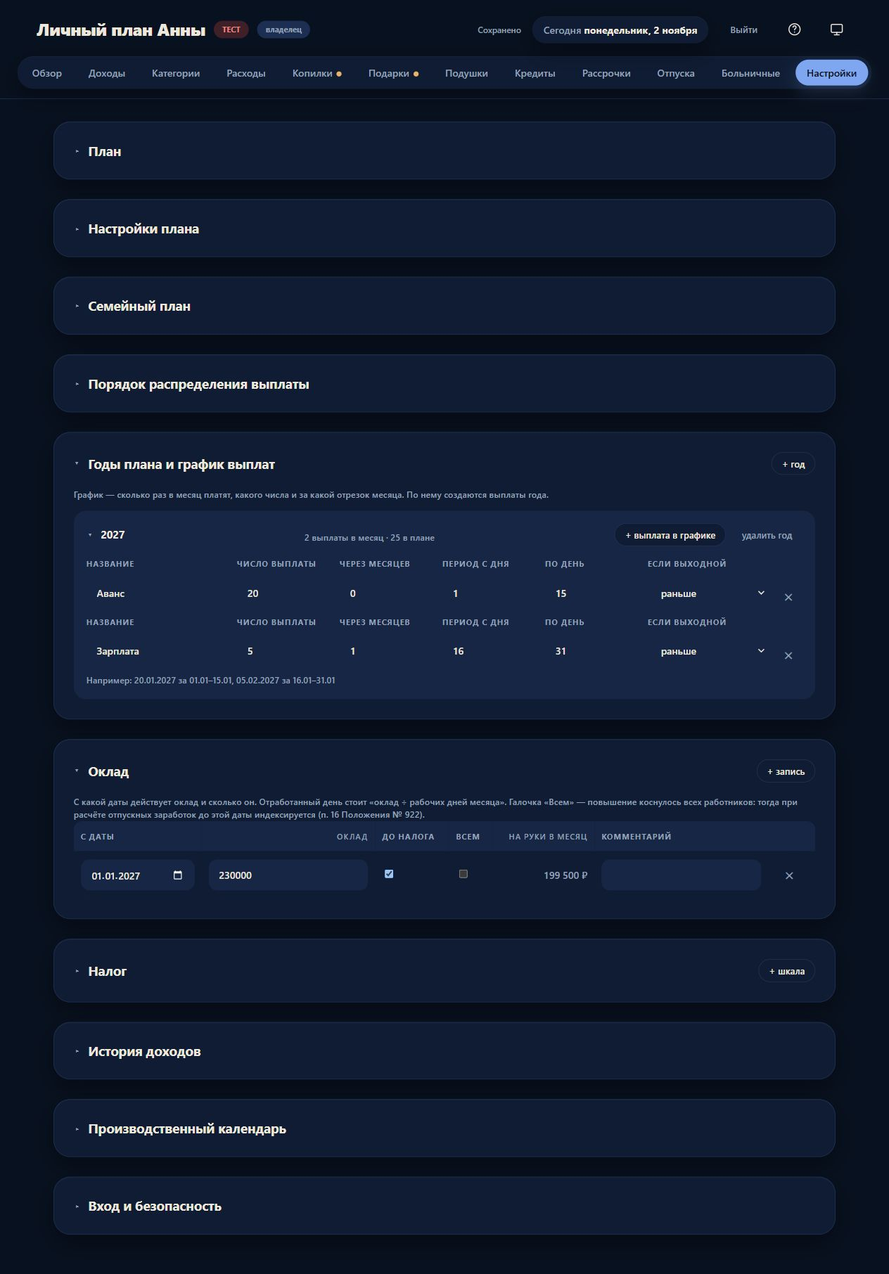
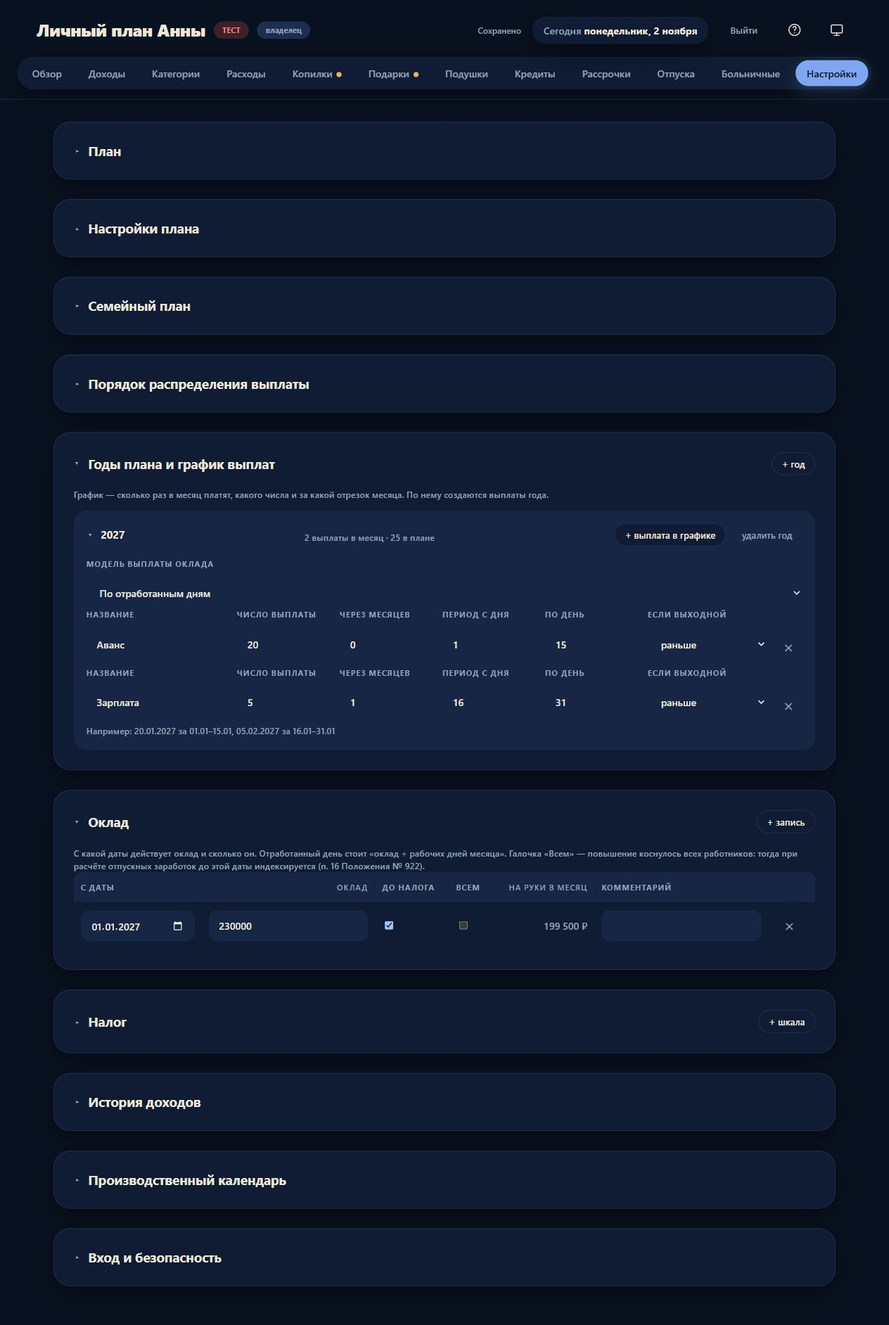
Новый тип оклада. В процентном соотношении.

diff --git a/help/index.html b/help/index.html
@@ -68,7 +68,11 @@
         <p class="guide-kicker">03 / Основа расчёта</p><h2>Настройки и производственный календарь</h2>
         <p>Блоки настроек раскрываются нажатием на заголовок. В каждом году график выплат раскрывается отдельно. В свёрнутом виде видны количество выплат и основные действия.</p>
         <ul><li><b>Оклад:</b> новая запись с датой начала задаёт изменение зарплаты с этой даты. Уточните, указываете сумму до налога или на руки. Признак общего повышения используется в расчёте среднего для отпускных.</li><li><b>Налог:</b> шкала и её ступени определяют переход от начисленного к сумме на руки. Последняя ступень может быть без верхней границы.</li><li><b>История доходов:</b> для точного расчёта отпускных обязательно заполните начисленный доход до НДФЛ за каждый из 12 календарных месяцев перед месяцем начала отпуска. Эти суммы нужны для среднего заработка и не создают отдельные поступления в текущий план. <a href="#vacations">Пример расчётного периода</a>.</li><li><b>Порядок распределения выплаты:</b> переставьте этапы стрелками и задайте параметры категорий, долгов, целей и семьи. Очередь влияет на то, кому достанутся доступные деньги.</li></ul>
-        <figure><a href="images/settings.jpg" data-enlarge><img src="images/settings.jpg" alt="Настройки: раскрытые год плана, график выплат и оклад" loading="lazy" width="1264" height="1812"></a><figcaption>График, оклад и налог настраиваются в отдельных раскрывающихся блоках.</figcaption></figure>
+        <figure><a href="images/settings.jpg" data-enlarge><img src="images/settings.jpg" alt="Настройки: раскрытые год плана, график выплат и оклад" loading="lazy" width="1264" height="1884"></a><figcaption>График, оклад и налог настраиваются в отдельных раскрывающихся блоках.</figcaption></figure>
+        <h3>Две модели выплаты оклада</h3><p>В раскрытом графике каждого года выберите модель: <b>«По отработанным дням»</b> либо <b>«В процентном соотношении»</b>. Выбор действует на этот год. Прежние планы используют модель по дням.</p><p>В процентной модели задайте долю оклада для каждой выплаты. Сумма не может превышать 100%; для запуска расчёта она должна быть ровно 100%. Все выплаты, кроме последней, получают свою долю оклада с поправкой на отношение отработанных рабочих дней периода ко всем рабочим дням этого периода. Последняя по дате выплата — окончательный расчёт: оклад за фактически отработанный месяц минус предыдущие окладные выплаты этого месяца. Разовые доходы в это вычитание не входят.</p>
+        <div class="guide-example"><h3>Пример: 50% аванс и окончательный расчёт</h3><p>Оклад 223 000 ₽ до налога, ставка НДФЛ 13%. В июле 23 рабочих дня, отпуск 6–10 июля. Из 11 рабочих дней первого периода отработано 6, за месяц — 18. Аванс: 223 000 × 0,87 × 50% × 6/11 ≈ 52 912 ₽. Зарплата: 223 000 × 0,87 × 18/23 − 52 912 ≈ 98 922 ₽.</p><p>За полностью отработанный август при таком окладе получаются две выплаты по 97 005 ₽. Даты, периоды и переносы по календарю настраиваются как обычно. При другой налоговой шкале применяется она; начисления и налог округляются по выплатам, поэтому возможна разница в рубль с сокращённой формулой на руки.</p></div>
+        <figure><a href="images/salary-percentage.jpg" data-enlarge><img src="images/salary-percentage.jpg" alt="Процентная модель оклада в графике года и доли двух выплат" loading="lazy" width="1264" height="1928"></a><figcaption>Проценты задаются в графике года. Последняя выплата рассчитывает остаток за месяц.</figcaption></figure>
+        <p>Введённые вручную и зафиксированные суммы не заменяются новой моделью: они засчитываются в остаток месяца. При изменении модели проверьте ручные рамки. Если предыдущие выплаты уже превысили начисление за месяц, итоговая выплата не становится отрицательной: карточка показывает предупреждение, автоматическая фиксация ожидает уточнения.</p>
         <h3>Как изменить рабочий день</h3><ol><li>Откройте «Производственный календарь».</li><li>Листайте месяцы стрелками. Нажатие на название месяца и год открывает быстрый выбор года и месяца.</li><li>Выберите день. Для рабочего доступно «Сделать нерабочим», для нерабочего — «Сделать рабочим».</li><li>Чтобы убрать собственное исключение, верните день «По календарю».</li></ol>
         <p>Рабочие дни считаются по календарю и вашим исключениям. Их изменение влияет на автоматический оклад и перенос дат выплат. Проверяйте производственный календарь для нужного года.</p>
       </section>
@@ -80,6 +84,8 @@
         <p>В таблице доходов сначала идут автоматические выплаты с названиями из графика этого года, затем их итог «Всего», разовые выплаты и «Общий доход». Внизу — суммы за год. Если автоматическая выплата одна, соответствующий столбец тоже один.</p>
         <p>Нажмите значок информации у суммы, чтобы увидеть начисление до налога, ставки и удержанный налог. Справка также показывает отпускные и больничный по их фактическим датам поступления. Эти справочные суммы уже включены в распределённые доходы: второй раз прибавлять их к итогу не нужно.</p>
         <p>Автоматические выплаты относятся к расчётным месяцам, разовые — к месяцу поступления. Поэтому зарплата за декабрь с выплатой в январе требует внимания к расчётному году и месяцу, а не только к дате на карточке.</p>
+        <h3>Расходы по категориям и подкатегориям</h3><p>Нажмите плитку «Расходы за год». Под категориями показаны их статьи и подкатегории, годовой план, факт и разница. Колонки среднего в деньгах показывают <b>годовую сумму, делённую на 12</b>, включая нулевые месяцы. Например, план 120 000 ₽ за год — это в среднем 10 000 ₽ в месяц. Итоги суммируют категории один раз: строки подкатегорий раскрывают их состав.</p>
+        <figure><a href="images/overview-expenses.jpg" data-enlarge><img src="images/overview-expenses.jpg" alt="Расходы Обзора с подкатегориями и средними месячными суммами плана и факта" loading="lazy" width="1264" height="1875"></a><figcaption>План и факт каждой категории и подкатегории дополнены средним за 12 месяцев.</figcaption></figure>
       </section>
 
       <section id="income" data-guide-section data-keywords="доходы выплата разовая премия подработка подарок формула ручной border закрепить распределить свободный остаток">

diff --git a/src/ui/dashboard.js b/src/ui/dashboard.js
@@ -11,6 +11,7 @@ import { goalTotal } from '../engine/savings.js';
 import { giftPlanTable } from './gifts.js';
 import { renderIncomeReport } from './income-report.js';
 import { buildIncomeReport } from '../engine/income-report.js';
+import {categoryItemAmounts} from '../engine/expenses.js';
 
 export const code = 'dashboard';
 export const title = () => 'Обзор';
@@ -30,6 +31,11 @@ function expensesView(ctx, rows) {
   for (const r of rows) for (const c of r.expenses.categories) plan.set(c.category_id, (plan.get(c.category_id) ?? 0) + c.amount);
   const fact = new Map();
   for (const f of facts) fact.set(f.category_id, (fact.get(f.category_id) ?? 0) + (Number(f.amount) || 0));
+  const items=state.expenses?.expense_items??[],itemPlans=new Map();
+  for(const r of rows)for(const c of r.expenses.categories){
+    const category=cats.find(x=>x.id===c.category_id);if(!category)continue;
+    for(const [id,amount] of categoryItemAmounts(category,items,r.period.pay_date,c.amount,fmt.round))itemPlans.set(id,(itemPlans.get(id)||0)+amount);
+  }
 
   const installments = rows.reduce((s, r) => s + r.installmentsTotal, 0);
   const cards = rows.reduce((s, r) => s + sumOf(r.debtPayments), 0);
@@ -53,11 +59,20 @@ function expensesView(ctx, rows) {
     const f = fact.get(c.id) ?? 0;
     if (!p && !f) return '';
     const diff = f - p;
+    const children=items.filter(i=>i.category_id===c.id);
+    const childLine=(title,plan,fact)=>`<tr class="fact-item"><td>${esc(title)}</td><td class="num muted">${esc(share(plan))}</td><td class="num">${esc(fmt.money(plan))}</td><td class="num">${esc(fmt.money(fact))}</td><td class="num">${fact?esc(fmt.money(fact-plan,undefined,{sign:true})):''}</td><td class="num">${esc(fmt.money(plan/12))}</td><td class="num">${esc(fmt.money(fact/12))}</td></tr>`;
+    const sub=children.map(i=>childLine(i.title,itemPlans.get(i.id)||0,facts.filter(x=>x.category_id===c.id&&x.item_key===i.id).reduce((s,x)=>s+Number(x.amount||0),0)));
+    const known=new Set(children.map(i=>i.id));
+    for(const key of new Set(facts.filter(x=>x.category_id===c.id&&x.item_key&&!known.has(x.item_key)).map(x=>x.item_key)))sub.push(childLine('Удалённая подкатегория',0,facts.filter(x=>x.category_id===c.id&&x.item_key===key).reduce((s,x)=>s+Number(x.amount||0),0)));
+    const unassigned=facts.filter(x=>x.category_id===c.id&&!x.item_key).reduce((s,x)=>s+Number(x.amount||0),0);
+    const unassignedPlan=Math.max(0,p-children.reduce((s,i)=>s+(itemPlans.get(i.id)||0),0));
+    if(sub.length&&(unassigned||unassignedPlan>.5))sub.push(childLine('Без подкатегории',unassignedPlan,unassigned));
     return `<tr>
       <td>${esc(c.title)}</td><td class="num muted">${esc(share(p))}</td>
       <td class="num">${esc(fmt.money(p))}</td><td class="num">${esc(fmt.money(f))}</td>
       <td class="num" style="${diff > 0 ? 'color:var(--danger);' : diff < 0 ? 'color:var(--good);' : ''}">${f ? esc(fmt.money(diff, undefined, { sign: true })) : ''}</td>
-    </tr>`;
+      <td class="num">${esc(fmt.money(p/12))}</td><td class="num">${esc(fmt.money(f/12))}</td>
+    </tr>${sub.join('')}`;
   }).filter(Boolean);
 
   const byInstallment = new Map();
@@ -97,11 +112,11 @@ function expensesView(ctx, rows) {
         отложенные в прошлых выплатах, поэтому в плитку они не входят.</div>
       ${catRows.length ? `<h3 style="margin:18px 0 6px;font-size:15px;">Категории</h3>
         ${table({ head: ['Категория', { title: 'Доля', cls: 'num' }, { title: 'План за год', cls: 'num' },
-          { title: 'Факт за год', cls: 'num' }, { title: 'Разница', cls: 'num' }],
+          { title: 'Факт за год', cls: 'num' }, { title: 'Разница', cls: 'num' },{title:'План в среднем за месяц',cls:'num'},{title:'Факт в среднем за месяц',cls:'num'}],
           rows: catRows,
           foot: `<tr><td><b>Итого</b></td><td class="num muted">${esc(share(catPlan))}</td>
             <td class="num"><b>${esc(fmt.money(catPlan))}</b></td><td class="num"><b>${esc(fmt.money(catFact))}</b></td>
-            <td class="num">${catFact ? esc(fmt.money(catFact - catPlan, undefined, { sign: true })) : ''}</td></tr>` })}` : ''}
+            <td class="num">${catFact ? esc(fmt.money(catFact - catPlan, undefined, { sign: true })) : ''}</td><td class="num">${esc(fmt.money(catPlan/12))}</td><td class="num">${esc(fmt.money(catFact/12))}</td></tr>` })}` : ''}
       ${section('Долги', '', 'Что', debtRows, installments + cards)}
       ${family ? section('Семейный план', '', 'Что', [`<tr><td>Семейные взносы</td><td class="num">${esc(share(family))}</td><td class="num">${esc(fmt.money(family))}</td></tr>`], family) : ''}
       ${section('Траты из копилок', 'Деньги, которые вы взяли из целей: переводы между копилками здесь не считаются.',

diff --git a/src/ui/settings.js b/src/ui/settings.js
@@ -103,15 +103,17 @@ function yearsCard(ctx) {
 
   const blocks = (inc.plan_years ?? []).slice().sort((a, b) => a.year - b.year).map(y => {
     const year = Number(y.year);
+    const percentModel=y.salary_model==='percentage';
     const slots = (inc.payout_slots ?? []).filter(s => Number(s.year) === year).sort((a, b) => a.sort_order - b.sort_order);
     const count = (inc.periods ?? []).filter(p => Number(p.year) === year).length;
-    const slotRows = slots.map(s => `<div class="item-row" style="grid-template-columns:1.2fr .8fr .8fr .8fr .8fr 1fr auto;align-items:end;">
+    const slotRows = slots.map(s => `<div class="item-row" style="grid-template-columns:1.2fr .8fr .8fr .8fr .8fr 1fr ${percentModel?'.8fr ':''}auto;align-items:end;">
       ${field('Название', input({ edit: 'income|payout_slots|title', key: { year, sort_order: s.sort_order }, value: s.title, disabled: !canEdit }))}
       ${field('Число выплаты', input({ edit: 'income|payout_slots|pay_day', key: { year, sort_order: s.sort_order }, value: s.pay_day, type: 'int', disabled: !canEdit }))}
       ${field('Через месяцев', input({ edit: 'income|payout_slots|month_offset', key: { year, sort_order: s.sort_order }, value: s.month_offset, type: 'int', disabled: !canEdit }))}
       ${field('Период с дня', input({ edit: 'income|payout_slots|window_from_day', key: { year, sort_order: s.sort_order }, value: s.window_from_day, type: 'int', disabled: !canEdit }))}
       ${field('по день', input({ edit: 'income|payout_slots|window_to_day', key: { year, sort_order: s.sort_order }, value: s.window_to_day, type: 'int', disabled: !canEdit }))}
       ${field('Если выходной', select({ edit: 'income|payout_slots|shift_rule', key: { year, sort_order: s.sort_order }, value: s.shift_rule, options: shifts, disabled: !canEdit }))}
+      ${percentModel?field('Доля оклада, %',input({edit:'income|payout_slots|salary_percent',key:{year,sort_order:s.sort_order},value:s.salary_percent??0,type:'number',disabled:!canEdit})):''}
       ${canEdit ? delButton({ domain: 'income', table: 'payout_slots', key: { year, sort_order: s.sort_order } }) : ''}
     </div>`).join('');
     const preview = slots.length ? payoutSchedule(year, slots, ctx.sim.income.calendar).slice(0, 2)
@@ -129,7 +131,9 @@ function yearsCard(ctx) {
             confirm: `Удалить ${year} год? Вместе с ним удалятся его график и ${count} выплат со всеми ручными суммами.` }) : ''}
         </div>
       </div>
-      ${open ? `<div style="margin-top:16px;">${slotRows || '<div class="small-note">Выплат в графике нет.</div>'}
+      ${open ? `<div style="margin-top:16px;">${field('Модель выплаты оклада',select({edit:'income|plan_years|salary_model',key:{year},value:y.salary_model??'worked_days',options:[{value:'worked_days',label:'По отработанным дням'},{value:'percentage',label:'В процентном соотношении'}],disabled:!canEdit}))}
+        ${percentModel?`<div class="small-note">Всего ${slots.reduce((n,s)=>n+Number(s.salary_percent||0),0)}% из 100%. Предыдущие выплаты — доля оклада с учётом отработанных дней периода; последняя — остаток за отработанный месяц. Для запуска расчёта необходимо 100%.</div>`:''}
+        ${slotRows || '<div class="small-note">Выплат в графике нет.</div>'}
         ${preview ? `<div class="small-note">Например: ${esc(preview)}</div>` : ''}</div>` : ''}
     </div>`;
   }).join('');
@@ -387,7 +391,7 @@ export function render(ctx) {
       title: 'Оклад',
       actions: canEdit ? addButton({ domain: 'income', table: 'salary_rates', label: '+ запись',
         row: { id: uid('rate'), effective_from: `${ctx.year}-01-01`, amount: 0, is_gross: true, note: '' } }) : '',
-      note: 'С какой даты действует оклад и сколько он. Отработанный день стоит «оклад ÷ рабочих дней месяца». '
+      note: 'С какой даты действует оклад и сколько он. В модели по дням отработанный день стоит «оклад ÷ рабочих дней месяца». '
         + 'Галочка «Всем» — повышение коснулось всех работников: тогда при расчёте отпускных заработок до этой даты индексируется (п. 16 Положения № 922).',
       body: table({ head: ['С даты', { title: 'Оклад', cls: 'num' }, 'До налога', 'Всем', { title: 'На руки в месяц', cls: 'num' }, 'Комментарий', ''],
         rows: rateRows.length ? rateRows : ['<tr><td colspan="7" class="muted">Оклад не задан</td></tr>'] }),

diff --git a/src/engine/income.js b/src/engine/income.js
@@ -25,6 +25,7 @@
 
 import { createCalendar, payoutSchedule } from './calendar.js';
 import { rateOn, salaryForWindow, absenceRanges, isSalaryPeriod } from './salary.js';
+import {percentageSalary,percentageScheduleError} from './percentage-salary.js';
 import { scaleForYear, taxForPayment, taxParts, grossFromNet, estimateMonthlyNet } from './tax.js';
 import { vacationFormula, vacationPay, splitVacationPay } from './vacation.js';
 import { createFx } from './fx.js';
@@ -69,7 +70,11 @@ export function computeIncome(state, cfg, { round = Math.round, fillIds = null, 
     for (const f of sickInfo) if (!f.disabled) f.errors.push('Автоматические поступления больничного поддерживаются в плане с базовой валютой RUB: суммы пособия и НДФЛ считаются в рублях.');
   }
   const preparedPeriods = sickPeriods(inc);
-  const periods = [...preparedPeriods, ...extraPeriods].sort(byDate);
+  const periods = [...preparedPeriods, ...extraPeriods].sort((a,b)=>{
+    if(a.pay_date===b.pay_date&&isSalaryPeriod(a)&&isSalaryPeriod(b)&&a.window_start?.slice(0,7)===b.window_start?.slice(0,7)
+      &&inc.plan_years?.find(y=>Number(y.year)===Number(a.window_start?.slice(0,4)))?.salary_model==='percentage')return (a.slot_order-b.slot_order)||byDate(a,b);
+    return byDate(a,b);
+  });
   const warnings = [];
   const sickByPeriod = new Map();
   for (const f of sickInfo) {
@@ -105,6 +110,7 @@ export function computeIncome(state, cfg, { round = Math.round, fillIds = null, 
         Этот проход идёт без отпускных — они добавляются ниже, когда посчитаны. */
   const grossOfPeriod = new Map();
   {
+    const previous=new Map();
     let cum = 0;
     let cumYear = null;
     for (const p of periods) {
@@ -117,11 +123,21 @@ export function computeIncome(state, cfg, { round = Math.round, fillIds = null, 
       const scale = scaleForYear(scales, brackets, payYear);
       const net = Number(p.income_net) || 0;
       const taxable = p.taxable !== false;
+      if(isSalaryPeriod(p)&&inc.plan_years?.find(y=>Number(y.year)===Number(p.window_start?.slice(0,4)))?.salary_model==='percentage'){
+        const f=percentageSalary(p,{slots,rates,calendar,absences,previous,round});
+        formulaGross.set(p.id,f);
+        if(f.error||f.overpaid)warnings.push({code:f.error?'salary_percentage_incomplete':'salary_percentage_overpaid',period_id:p.id,message:f.error||'Предыдущие выплаты превысили оклад за отработанный месяц.'});
+      }
       const f = formulaGross.get(p.id);
       const useFormula = f && (automaticIncome(p) || fillIds?.has(p.id));
       const gross = useFormula ? f.grossTaxable + grossFromNet(f.grossNet, cum + f.grossTaxable, scale)
         : taxable ? grossFromNet(net, cum, scale) : net;
       grossOfPeriod.set(p.id, { gross, taxable });
+      if(isSalaryPeriod(p)){
+        const key=p.window_start?.slice(0,7),paid=previous.get(key)||{taxable:0,net:0};
+        const netRate=rateOn(rates,p.window_end)?.is_gross===false;
+        previous.set(key,{taxable:paid.taxable+(useFormula?f.grossTaxable:netRate?0:taxable?gross:net),net:paid.net+(useFormula?f.grossNet:netRate?net:0)});
+      }
       if (taxable) cum += gross;
       cum += sickPartsFor(p).filter(x => x.payer === 'employer').reduce((n, x) => n + x.gross, 0);
     }
@@ -325,6 +341,9 @@ export function computeIncome(state, cfg, { round = Math.round, fillIds = null, 
    Возвращает строки для state.income.periods — добавить их вызывающий код. */
 export function generateYear(state, cfg, year, { round = Math.round } = {}) {
   const inc = state.income ?? {};
+  if(inc.plan_years?.find(y=>Number(y.year)===Number(year))?.salary_model==='percentage'){
+    const error=percentageScheduleError(year,inc.payout_slots??[]);if(error)throw new Error(error);
+  }
   const calendar = calendarFor(state, cfg);
   const existing = new Set((inc.periods ?? []).map(p => p.id));
   const taken = new Set((inc.periods ?? []).map(p => `${p.year}|${p.slot_order}|${p.window_start}`));

diff --git a/src/engine/percentage-salary.js b/src/engine/percentage-salary.js
@@ -1,0 +1,42 @@
+import {eachDay,daysInMonth} from './dates.js';
+import {rateOn,salaryForWindow} from './salary.js';
+import {payoutSchedule} from './calendar.js';
+
+export function percentageScheduleError(year,slots){
+  const own=slots.filter(s=>Number(s.year)===Number(year));
+  if(own.some(s=>!Number.isFinite(Number(s.salary_percent||0))||Number(s.salary_percent)<0||Number(s.salary_percent)>100))return 'Процент каждой выплаты должен быть от 0 до 100.';
+  const sum=own.reduce((n,s)=>n+Number(s.salary_percent||0),0);
+  return !own.length||Math.abs(sum-100)>0.000001?'Для расчёта сумма процентов выплат года должна быть равна 100%.':null;
+}
+
+// Работает в начисленных суммах; НДФЛ применяется общим налоговым движком.
+export function percentageSalary(p,{slots,rates,calendar,absences,previous,round}){
+  const ym=p.window_start?.slice(0,7),year=Number(ym?.slice(0,4));
+  const daysInWindow=calendar.workingDaysBetween(p.window_start,p.window_end);
+  const empty={gross:0,grossTaxable:0,grossNet:0,windowDays:daysInWindow,workedDays:0,absentDays:daysInWindow,months:[],percentage:true};
+  const error=percentageScheduleError(year,slots);
+  if(error)return {...empty,error};
+  const slot=slots.find(s=>Number(s.year)===year&&s.sort_order===p.slot_order);
+  if(!slot)return {...empty,error:'Выплата отсутствует в процентном графике года.'};
+  const scheduled=payoutSchedule(year,slots,calendar).filter(s=>s.window_start.startsWith(ym));
+  const last=scheduled.at(-1)?.slot_order===p.slot_order;
+  const end=`${ym}-${daysInMonth(year,Number(ym.slice(5,7)))}`;
+  const full=salaryForWindow({start:ym+'-01',end,rates,calendar,absences,round});
+  const own=salaryForWindow({start:p.window_start,end:p.window_end,rates,calendar,absences,round});
+  if(last){
+    const paid=previous.get(ym)||{taxable:0,net:0};
+    const taxable=(full?.grossTaxable||0)-paid.taxable,net=(full?.grossNet||0)-paid.net;
+    return {...empty,...own,percentage:true,settlement:true,percent:Number(slot.salary_percent),
+      grossTaxable:Math.max(0,round(taxable)),grossNet:Math.max(0,round(net)),gross:Math.max(0,round(taxable))+Math.max(0,round(net)),
+      overpaid:taxable<-.5||net<-.5};
+  }
+  const days=[...eachDay(p.window_start,p.window_end)].filter(d=>calendar.isWorkingDay(d));
+  let taxable=0,net=0;
+  for(const d of days){
+    if(absences.some(([a,b])=>d>=a&&d<=b))continue;
+    const rate=rateOn(rates,d);if(!rate)continue;
+    const value=Number(rate.amount)*Number(slot.salary_percent)/100/days.length;
+    if(rate.is_gross===false)net+=value;else taxable+=value;
+  }
+  return {...empty,...own,percentage:true,percent:Number(slot.salary_percent),grossTaxable:round(taxable),grossNet:round(net),gross:round(taxable)+round(net)};
+}

diff --git a/src/ui/periods.js b/src/ui/periods.js
@@ -187,7 +187,7 @@ function body(ctx, r) {
         ${input({ edit: 'income|periods|income_net', key: { id: p.id }, value: r.income.salary, type: 'money', disabled: !canEdit || !!p.sick_leave_id || r.familyContribution?.posted,
           cls: p.sick_leave_id ? (r.income.sick?.manual ? 'own' : '') : p.income_manual || p.calc_mode === 'manual' ? 'own' : '' })}
         <div class="small-note">${f
-          ? `${esc(fmt.money(f.net))} по формуле: ${f.workedDays} из ${f.windowDays} рабочих дней,
+          ? `${esc(fmt.money(f.net))} по формуле: ${f.error?esc(f.error):f.percentage?(f.settlement?'окончательный расчёт за месяц':`${f.percent}% оклада, ${f.workedDays} из ${f.windowDays} рабочих дней периода`):`${f.workedDays} из ${f.windowDays} рабочих дней`}${f.overpaid?' · Предыдущие выплаты превысили оклад за месяц':''},
              начислено ${esc(fmt.money(f.gross))}, налог ${esc(fmt.money(f.tax))}
              ${canEdit && (p.income_manual || Math.abs(r.income.salary - f.net) > 0.5)
                ? button({ action: 'fill-income', value: p.id, label: 'подставить по формуле', cls: 'ghost small' }) : ''}`

diff --git a/src/ui/app.js b/src/ui/app.js
@@ -148,7 +148,7 @@ export function createApp({ store, env = 'prod', client = null, onSignOut }) {
   /* Прошедшие выплаты фиксируются: расчёт превращается в факт и больше не меняется */
   function freezePast(ctx) {
     if (!ctx.canEdit) return false;
-    const ids = ctx.sim.rows.filter(r => !r.period.locked && !r.income.sick?.pendingTax && !r.income.sickPendingTax
+    const ids = ctx.sim.rows.filter(r => !r.period.locked && !r.income.formula?.error && !r.income.formula?.overpaid && !r.income.sick?.pendingTax && !r.income.sickPendingTax
       && (!r.familyContribution?.member_id || r.familyContribution.posted) && r.period.pay_date < ctx.today).map(r => r.period.id);
     if (!ids.length) return false;
     const patch = freezePeriods(ctx.state, ctx.sim, ids, ctx.fmt.round);

diff --git a/src/core/family-worker.js b/src/core/family-worker.js
@@ -17,7 +17,7 @@ export async function runFamilyMember({ rpc, memberId, actor = null, post = fals
     let waiting = false;
     const due = post ? rows.filter(r => {
       if (r.period.pay_date > today) return false;
-      waiting ||= Boolean(r.income.sickPendingTax || r.income.sick?.pendingTax);
+      waiting ||= Boolean(r.income.formula?.error || r.income.formula?.overpaid || r.income.sickPendingTax || r.income.sick?.pendingTax);
       return !waiting;
     }) : [];
     const dueIds = new Set(due.map(r => r.period.id));

diff --git a/docs/percentage-salary.md b/docs/percentage-salary.md
@@ -1,0 +1,13 @@
+# Модель процентных выплат
+
+В графике года выбирается `plan_years.salary_model`: `worked_days` по умолчанию либо `percentage`. В слотах процентной модели задаётся `salary_percent` (0–100). SQL ограничивает сумму по году сверху 100%, браузер требует ровно 100% для генерации. Незавершённый график можно сохранить; автоматические суммы показывают предупреждение и не фиксируются сервером или браузером.
+
+Предыдущие выплаты начисляют свой процент оклада с поправкой на отработанную долю рабочих дней своего периода. Последняя определяется датами выплат графика (с учётом переносов), относится к расчётному месяцу и получает остаток фактического месячного оклада. Начисления ведутся до налога, затем применяется существующий налоговый движок по датам выплат и накопленной базе. Отпуска и больничные добавляются прежним способом, отдельно от окладного остатка. Разовые выплаты в остаток не входят.
+
+Ручные/закреплённые предыдущие окладные выплаты засчитываются по фактической сумме. Оклады с изменением ставки внутри месяца учитываются по датам. Предыдущие выплаты выше месячного начисления дают предупреждение и нулевой остаток; автоматическая фиксация ожидает исправления. Снимки закреплённых выплат не переписываются.
+
+В личном Обзоре расходов теперь есть статьи/подкатегории и средний план/факт за месяц = годовая сумма / 12. Детализация использует тот же расчёт долей статей, что месячные Расходы, с учётом ручной суммы выплаты, процентов и сезонов. Удалённые статьи с фактом сохраняются в детализации; общий факт родителя показан отдельно.
+
+Применение: выполнить `supabase/migrations/20261102134547_percentage_salary.sql` в каждой базе, опубликовать сайт. Для чистой базы обновлён `v2/install.sql`. Общий движок изменился: перед развёртыванием `family-worker` выполнить `node tools/build-family-function.mjs`, затем переопубликовать функцию для каждой базы.
+
+В сентябре 2026 отпуск 20–24 числа исключает четыре рабочих дня стандартной пятидневки. Для 17 отработанных дней из 22 отпуск должен также включать 25 сентября либо календарь должен содержать соответствующие исключения. Расчёт не подменяет календарь числами примера.
